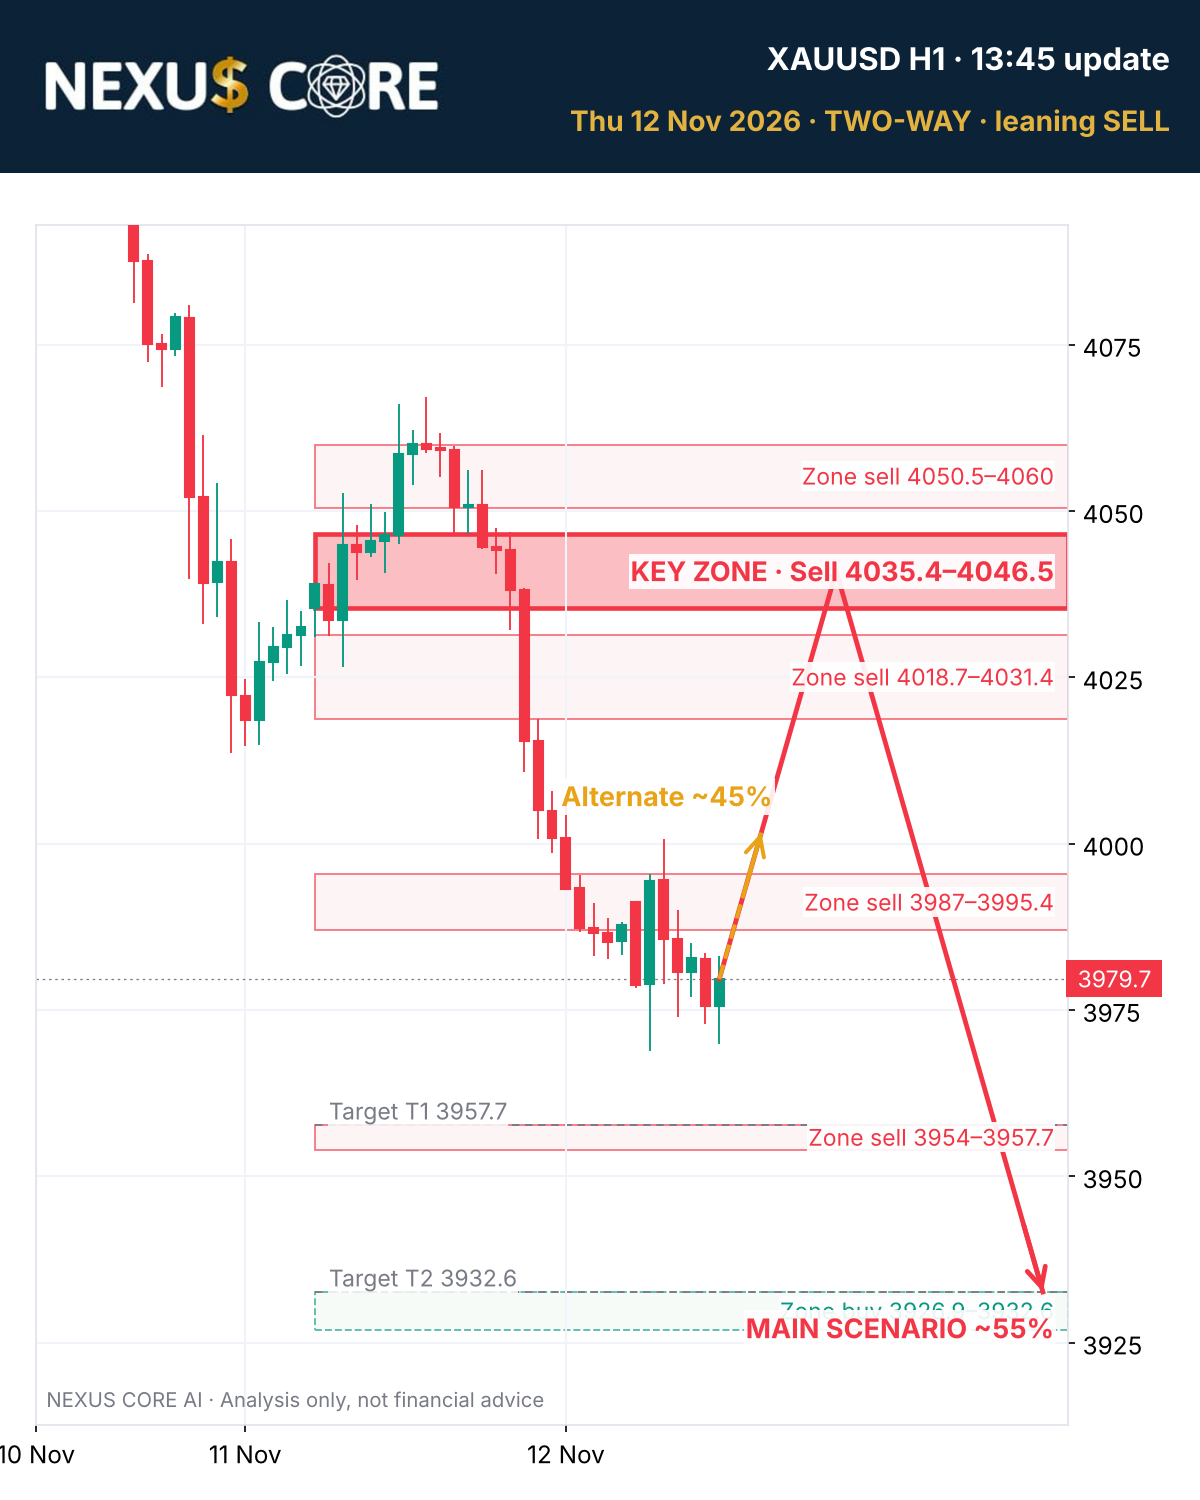
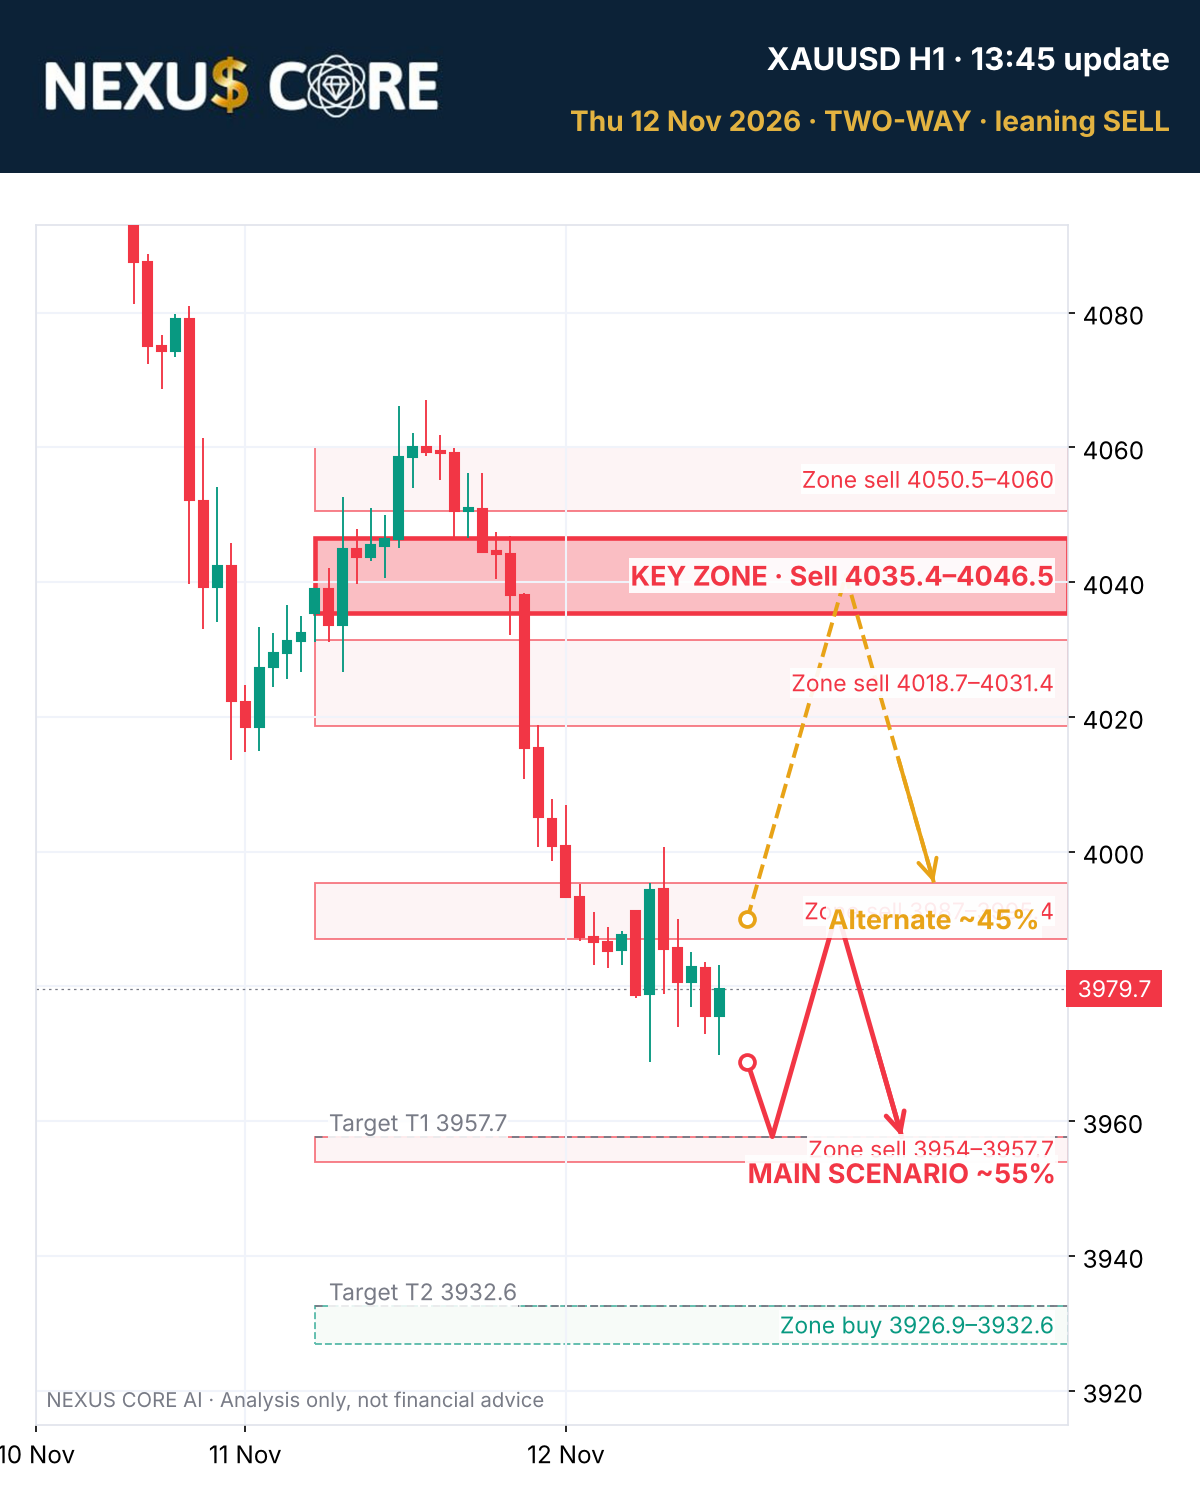
Chart: scenario arrows start where price breaks the blocking zone (optional scenarios[].path = [break level, waypoints...]), never at the current price; redraw 2026-11-12 1345
Claude-Session: https://claude.ai/code/session_01WJYGnTrbXDepCU7DbnsJKo

diff --git a/tools/chart.py b/tools/chart.py
@@ -81,8 +81,18 @@ def render(outf, mob):
     paths = []
     sc = P.get('scenarios') or []
     tg_mid = [(q['lo'] + q['hi']) / 2 for q in P.get('targets') or []]
+    zl = [(min(z['lo'], z['hi']), max(z['lo'], z['hi'])) for z in P.get('zones') or []]
     def path_for(s, main):
+        # The arrow's foot is where price BREAKS the zone that stands in the way – never the current price.
+        # 1) scenario "path" written by the plan task: [break level, waypoint, ...] → used as is.
+        # 2) otherwise: waypoints = main zone (main scenario, same side) then targets; foot = far edge of the
+        #    nearest zone between the current price and the first waypoint (none in the way → current price).
         sgn = -1 if s['side'] == 'SELL' else 1
+        col = (DN if sgn < 0 else UP) if main else ORG
+        lab = f"{W['main'] if main else W['alt']} ~{s['prob']}%"
+        pth = [float(v) for v in (s.get('path') or []) if isinstance(v, (int, float))]
+        if len(pth) >= 2:
+            return dict(gia=pth[1:], foot=pth[0], col=col, dut=not main, nhan=lab)
         if mz and main and ((mz['side'] == 'SELL') == (sgn < 0)) and abs((mz['lo'] + mz['hi']) / 2 - px) > 3:
             pts = [(mz['lo'] + mz['hi']) / 2]
         else:
@@ -90,12 +100,18 @@ def render(outf, mob):
         base = pts[-1] if pts else px
         goals = [g for g in tg_mid if (g - base) * sgn > 0][:2] if main else []
         if not goals: goals = [base + 22 * sgn]
-        return dict(gia=pts + goals, col=(DN if sgn < 0 else UP) if main else ORG, dut=not main,
-                    nhan=f"{W['main'] if main else W['alt']} ~{s['prob']}%")
+        gia = pts + goals
+        first, foot = gia[0], px
+        up = first > px
+        block = [(a, b) for a, b in zl if px < a and b < first - 2] if up else [(a, b) for a, b in zl if first + 2 < a and b < px]
+        if block:
+            a, b = min(block) if up else max(block)
+            foot = b if up else a
+        return dict(gia=gia, foot=foot, col=col, dut=not main, nhan=lab)
     if sc: paths.append(path_for(sc[0], True))
     if len(sc) > 1: paths.append(path_for(sc[1], False))
 
-    ys = [px, lo_v, hi_v] + [g + (8 if g > px else -8) for q in paths for g in q['gia']] + shown
+    ys = [px, lo_v, hi_v] + [g + (8 if g > px else -8) for q in paths for g in q['gia'] + [q['foot']]] + shown
     ax.set_xlim(0, n + fut); ax.set_ylim(min(ys) - 12, max(ys) + 12)
     fig.canvas.draw()
     def steep(x0, y0, prices, ang=16):
@@ -103,12 +119,14 @@ def render(outf, mob):
         wpx, hpx = ax.bbox.width / (xb - xa), ax.bbox.height / (yb - ya)
         pts, xx, yy = [(x0, y0)], x0, y0
         for p in prices:
-            dx = max(abs(p - yy) * hpx * math.tan(math.radians(ang)) / wpx, 1.0); xx, yy = xx + dx, p; pts.append((xx, yy))
+            dx = max(abs(p - yy) * hpx * math.tan(math.radians(ang)) / wpx, 1.8 if mob else 2.6); xx, yy = xx + dx, p; pts.append((xx, yy))
         return pts
     used = []
     for q in paths:
-        pts = steep(x, px, q['gia']); xs, ys_ = zip(*pts); lw = 1.9 if q['dut'] else 2.3
+        x0 = x + ((2.0 if mob else 3.0) if abs(q['foot'] - px) > 1 else 0)
+        pts = steep(x0, q['foot'], q['gia']); xs, ys_ = zip(*pts); lw = 1.9 if q['dut'] else 2.3
         ax.plot(xs, ys_, color=q['col'], lw=lw, ls='--' if q['dut'] else '-', zorder=5)
+        ax.plot([x0], [q['foot']], marker='o', ms=5.5 * K, mfc='white', mec=q['col'], mew=1.8, zorder=6)   # break point
         (a1, b1), (a2, b2) = pts[-2], pts[-1]
         ax.annotate('', xy=(a2, b2), xytext=(a1 + (a2 - a1) * 0.6, b1 + (b2 - b1) * 0.6), zorder=6,
                     arrowprops=dict(arrowstyle='->,head_length=0.9,head_width=0.45', color=q['col'], lw=lw, shrinkA=0, shrinkB=0))
@@ -117,7 +135,7 @@ def render(outf, mob):
             if abs(lx - a2) < 14 and abs(ly - yy) < 8: yy = ly - 9 if b2 <= ly else ly + 9
         used.append((a2, yy))
         up = b2 > b1
-        ax.text(a2 + 0.8, yy + (3 if up else -3), q['nhan'], ha='right', va='bottom' if up else 'top', color=q['col'], fontsize=10 * K,
+        ax.text(a2, yy + (3 if up else -3), q['nhan'], ha='center', va='bottom' if up else 'top', color=q['col'], fontsize=10 * K,
                 fontweight='bold', zorder=9, bbox=dict(fc='white', ec='none', alpha=0.9, pad=1))
 
     ax.yaxis.tick_right(); ax.grid(color='#F0F3FA', lw=1)
